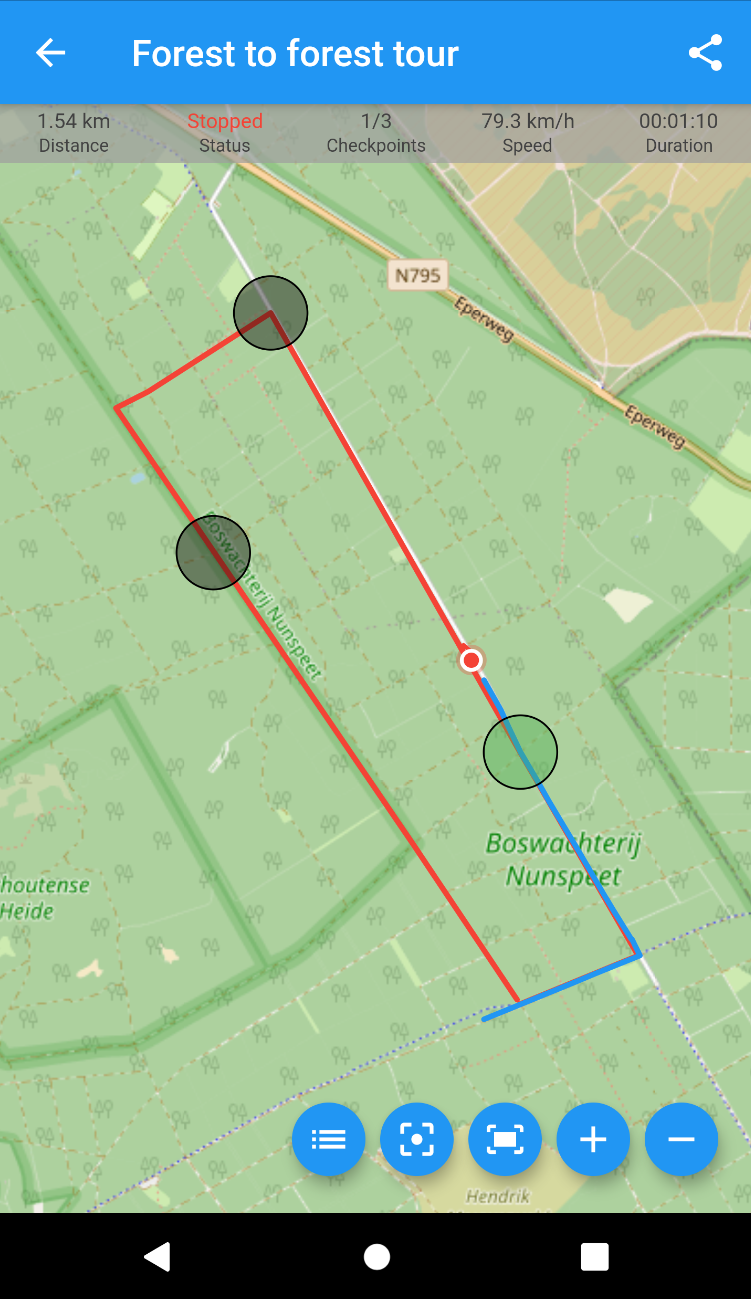
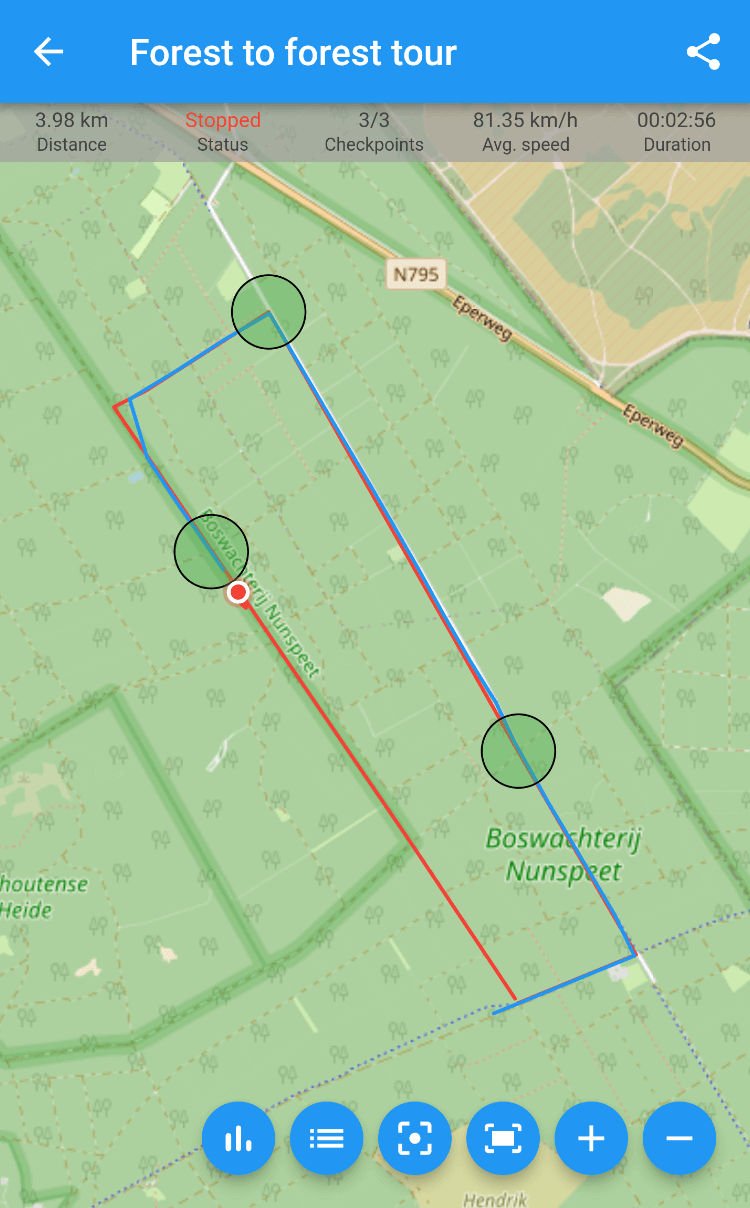
FE Tracking 1.4.0

diff --git a/docs/usage/track-map.rst b/docs/usage/track-map.rst
@@ -49,3 +49,26 @@ And the date and time are transmitted to the event organiser's server.
 Recording can be paused when you take a break to rest, for example. Pausing the recording is a good way to save the phone's battery life.
 
 You can of course still view the recorded track in pause mode and, for example, :guilabel:`Share` the track by pressing the :fa:`share-alt fa-fw fa-lg text-primary` icon in the top right of the screen.
+
+Graphs
+------
+.. panels::
+   :container: container-lg
+   :column: col-lg-6 col-md-12 col-sm-12
+
+   .. figure:: ../_static/images/usage/Shared-track-speed.png
+      :target: ../_static/images/usage/Shared-track-speed.png
+      :alt: Speed graph
+
+      Speed graph
+   ---
+   .. figure:: ../_static/images/usage/Shared-track-speed-touch.png
+      :target: ../_static/images/usage/Shared-track-speed-touch.png
+      :alt: Speed graph (touch line)
+
+      Speed graph (touch line)
+
+|
+
+Press the :fa:`bar-chart fa-fw fa-lg text-primary` icon to show the speed graph and altitude graph.
+Touch the line graph to show the intermediate data.

diff --git a/docs/usage/faq.rst b/docs/usage/faq.rst
@@ -46,7 +46,7 @@ FAQ
 
           Cutting a corner
        ---
-       It depends on the length of the route, whether there are many sharp bends in the track and most importantly, the distance filter defined by the event organisation.
+       It depends on the length of the track, whether there are many sharp bends in the track and most importantly, the distance filter defined by the event organisation.
        The App is optimized for battery-efficiency. It samples the accelerometer periodically while tracking in order to power-down the GPS as soon as the device is determined to be stationary.
        It uses the distance filter to query for the GPS location. But the filter itself is elastic; the faster you go, the larger the distance filter becomes. And ofcourse the other way around.
        Usually, the organisation sets this filter to at least 10 metres for a walking track and at least 20 metres for bicycles, for example.

diff --git a/docs/getting-started/settings.rst b/docs/getting-started/settings.rst
@@ -45,13 +45,16 @@ Map settings
 ------------
 
 Disable checkpoint circles
-  The checkpoints on the ttrack are shown as light grey circles and light green circles when a checkpoint is passed.
+  The checkpoints on the track are shown as light grey circles and light green circles when a checkpoint is passed.
   Disabling this option has no effect on the indication of whether a checkpoint has been passed or not.
   If uploading is selected, the date and time of passing the checkpoint is still sent to the event organisation's server.
 
 Realtime sharing
   Use real-time track sharing with your family, friends, etc while you are walking, cycling, running, ...
   This is only possible if the event organiser allows sharing and if this switch is on.
+
+Centre location position
+  Centring the current position on the map.
 
 Track color
   The colour of the track on the map. Click on the coloured circle to change its colour.

diff --git a/docs/usage/shared-tracks.rst b/docs/usage/shared-tracks.rst
@@ -55,3 +55,24 @@ Shared track map
 Click on the shared track to show the map. Here you can see the progress of the participant on the track.
 This can be in real-time or after the participant has travelled at least a certain distance.
 This is set by the event organisation.
+
+.. panels::
+   :container: container-lg
+   :column: col-lg-6 col-md-12 col-sm-12
+
+   .. figure:: ../_static/images/usage/Shared-track-speed.png
+      :target: ../_static/images/usage/Shared-track-speed.png
+      :alt: Speed graph
+
+      Speed graph
+   ---
+   .. figure:: ../_static/images/usage/Shared-track-speed-touch.png
+      :target: ../_static/images/usage/Shared-track-speed-touch.png
+      :alt: Speed graph (touch line)
+
+      Speed graph (touch line)
+
+|
+
+Touch the line graph to show the intermediate data.
+

diff --git a/docs/getting-started/changelog.rst b/docs/getting-started/changelog.rst
@@ -1,6 +1,11 @@
 Changelog
 =========
 
+v1.4 (21 December 2021)
+-----------------------
+* New: Line charts for tracks and shared tracks.
+* New: New setting to centralise the map at the current location.
+
 v1.3 (25 October 2021)
 -----------------------
 * New: Share your track with your family and friends in real time while walking, cycling, ... Only if the event organization allows sharing and if sharing is enabled in the App settings.
